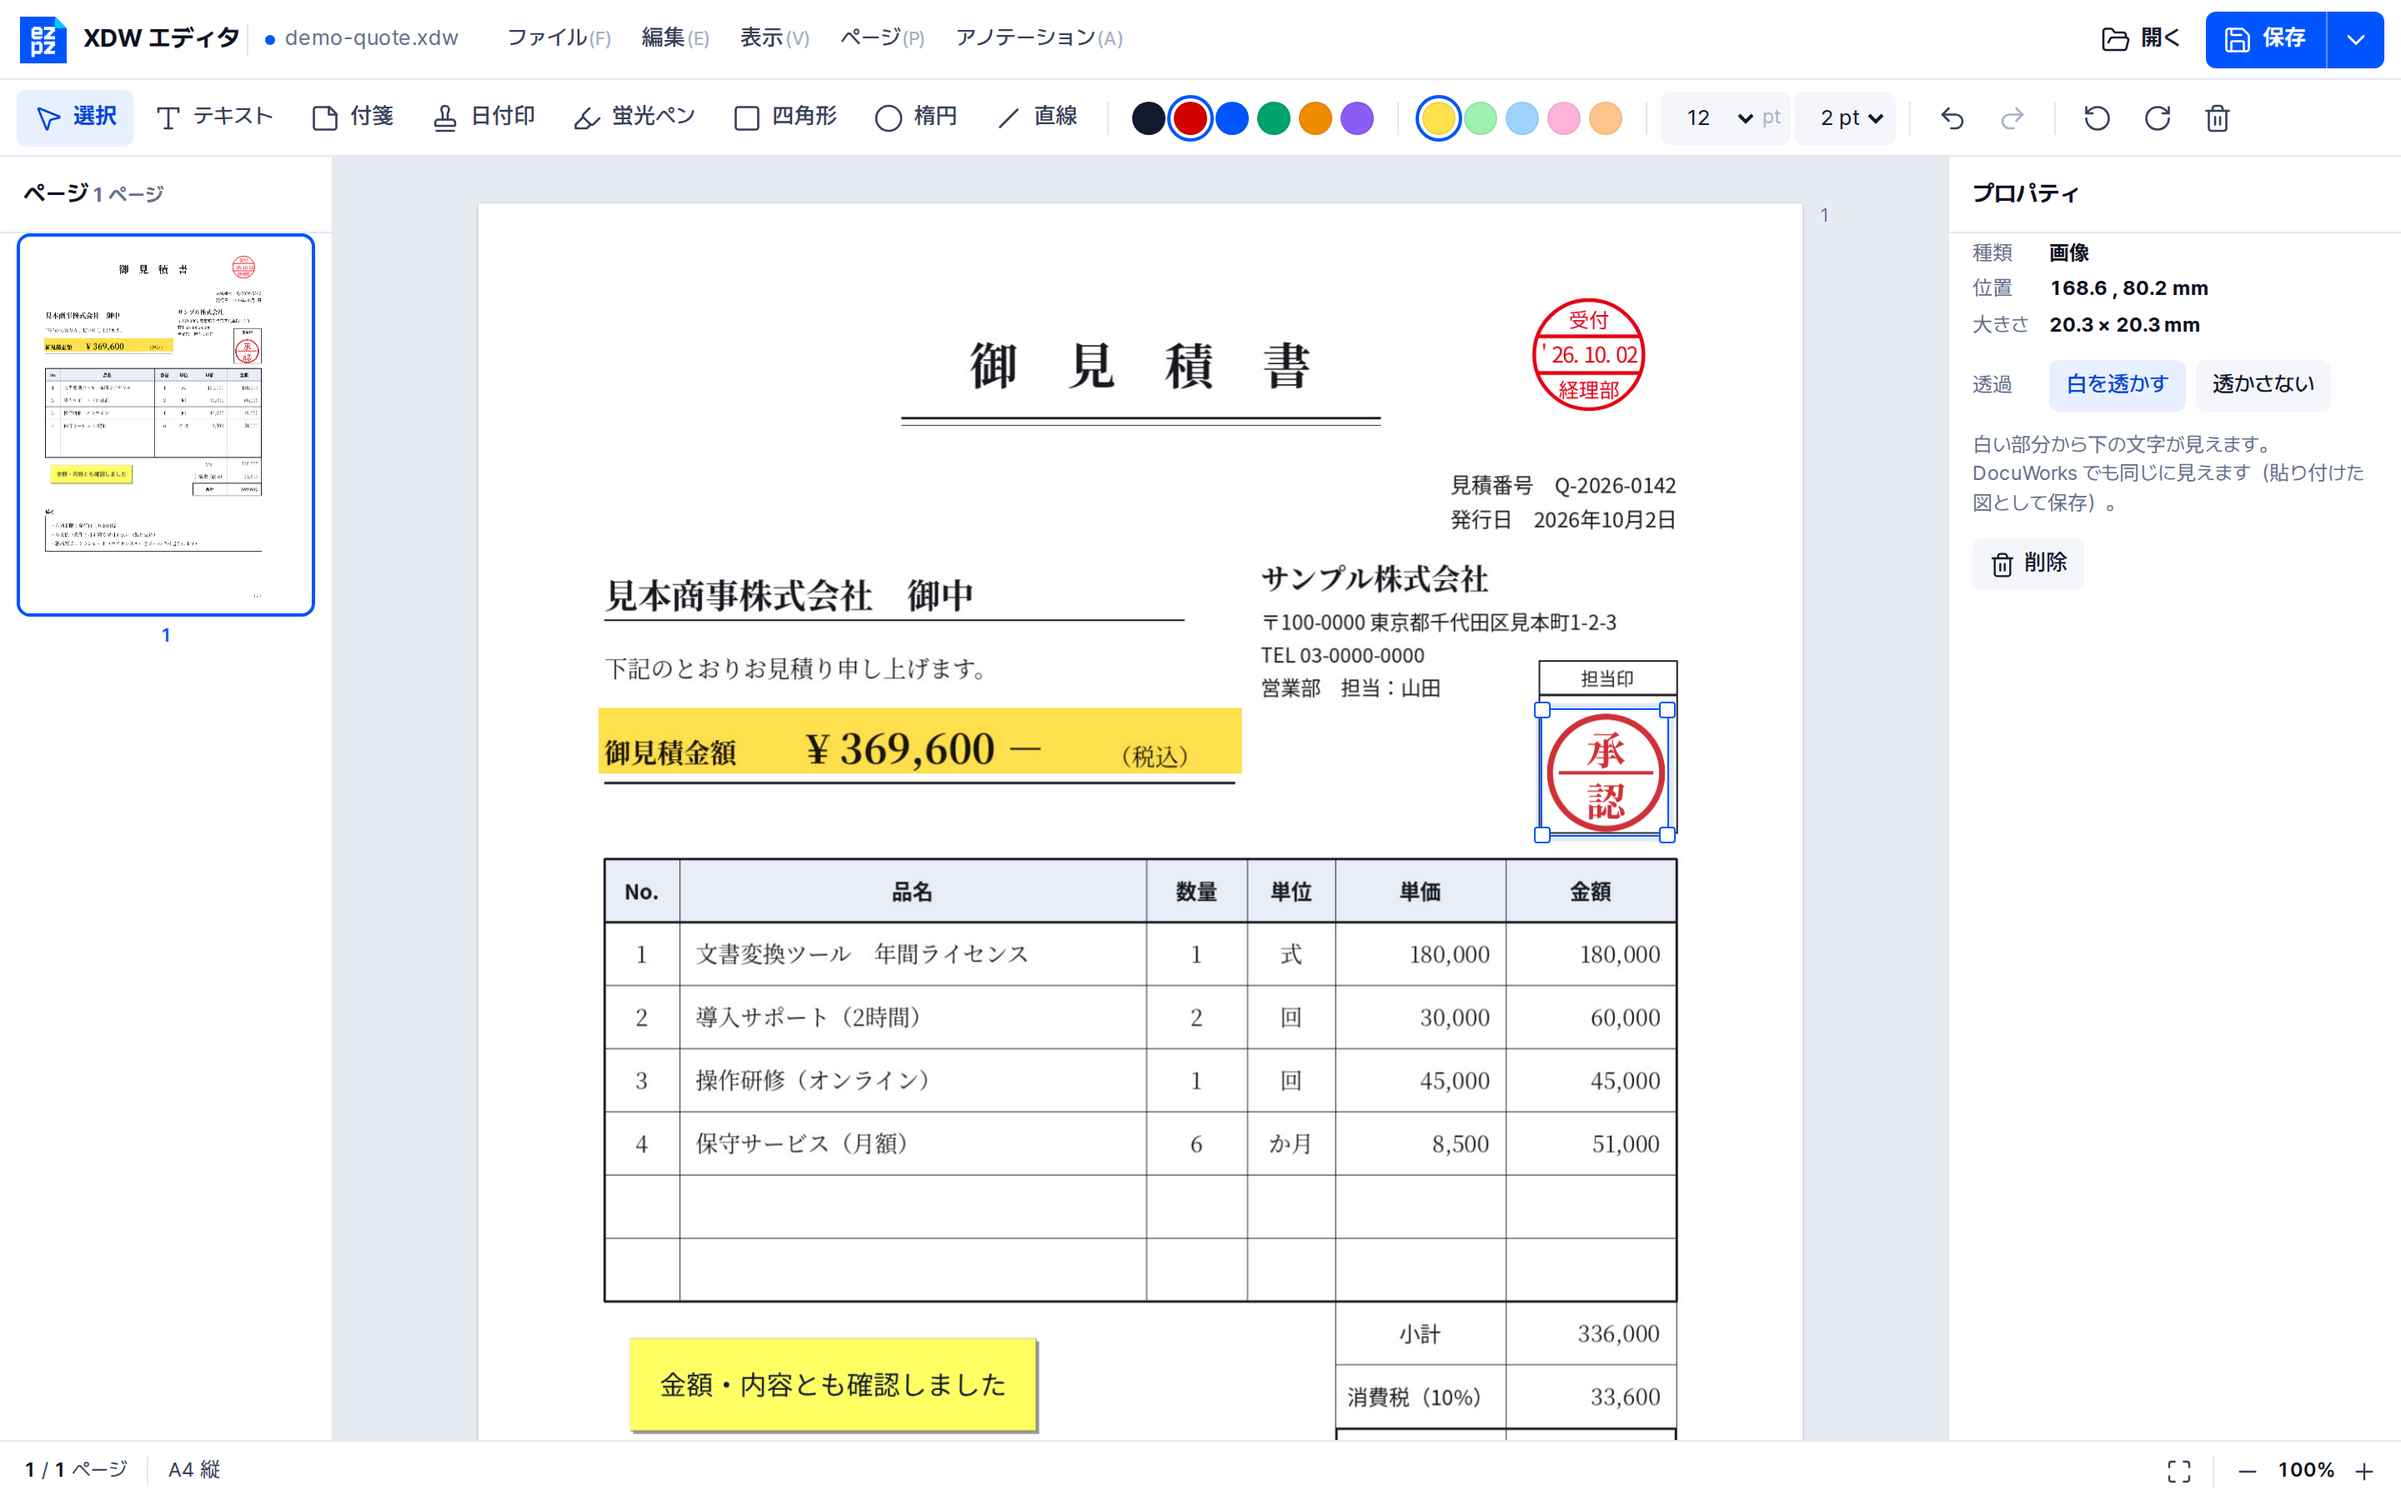
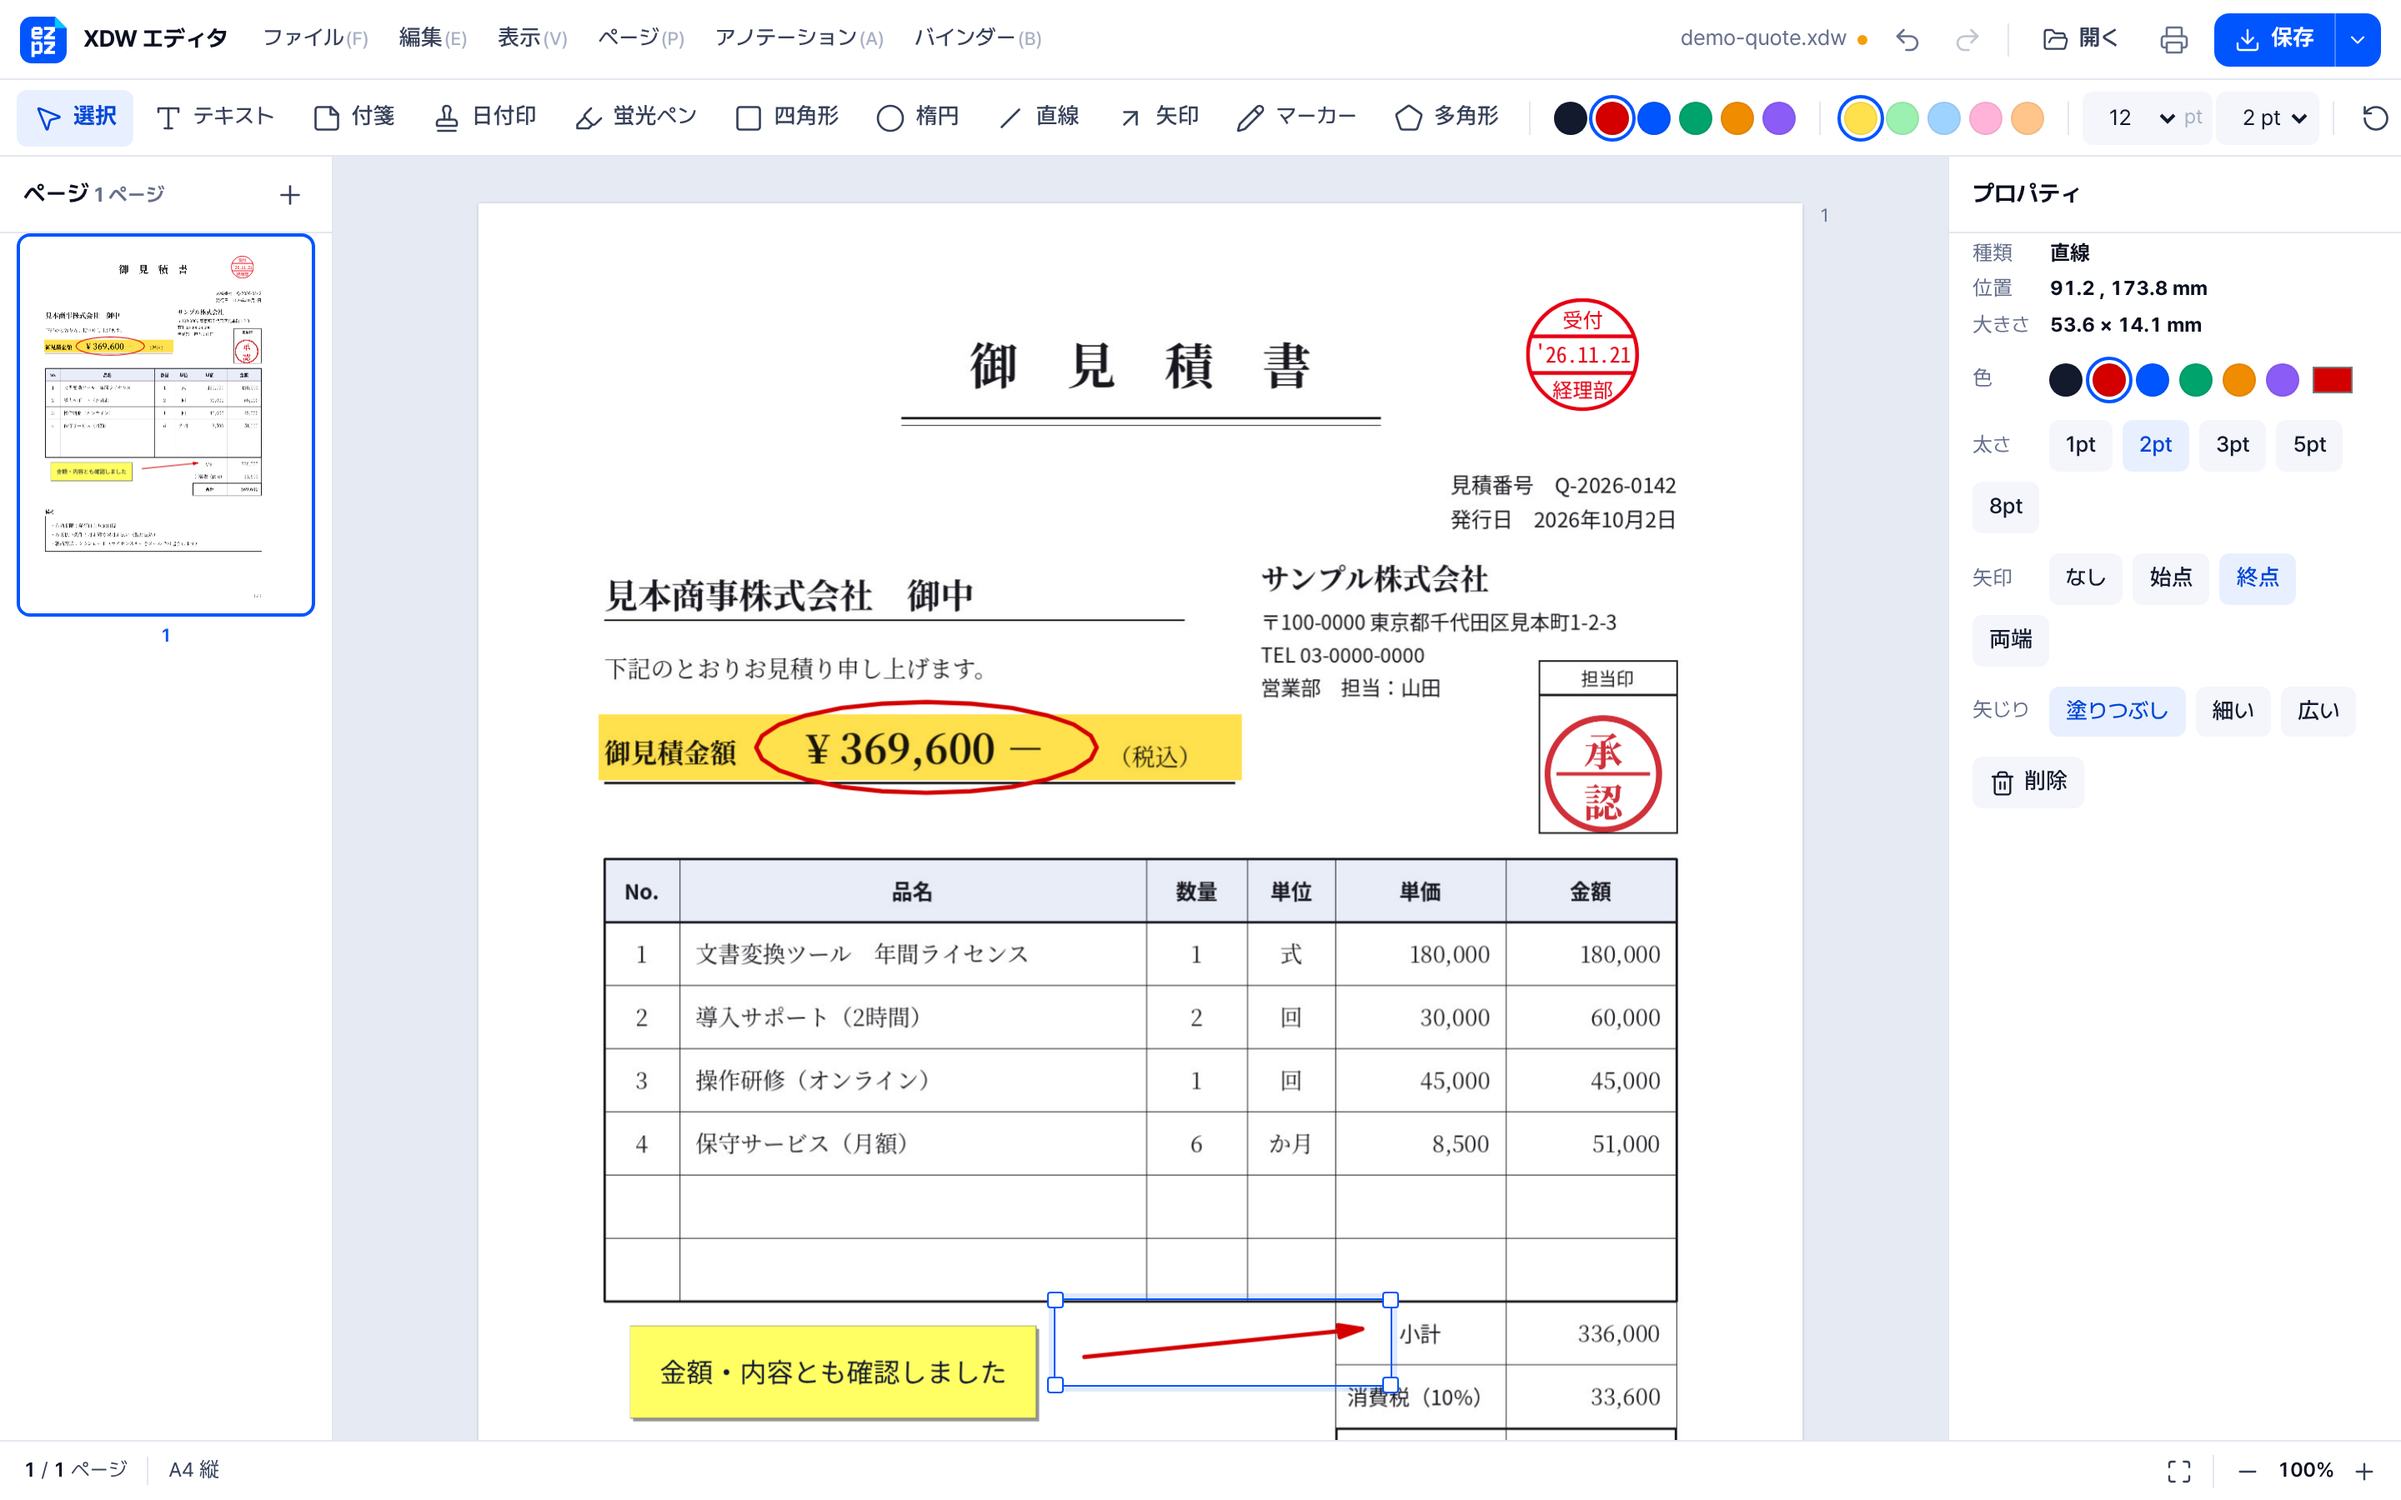
docs: README for 0.4 (status, what is left to DocuWorks, new screenshot)
Claude-Session: https://claude.ai/code/session_014qcgeBg5AazadfLEhogDHo

diff --git a/README.md b/README.md
@@ -12,7 +12,7 @@
 富士フイルム（旧富士ゼロックス）DocuWorks のファイルを扱うための、ゼロから作ったオープンソースの
 エンジン・エディタ・ファイル形式仕様書です。ファイルは端末の外に送信されません。
 
-状態: **v0.3。`.xdw` / `.xbd` に保存し直せるビューア + エディタ（開発者向けプレビュー）。**
+状態: **v0.4。`.xdw` / `.xbd` に保存し直せるビューア + エディタ（開発者向けプレビュー）。**
 富士フイルムビジネスイノベーション株式会社とは関係ありません。
 
 [![XDW エディタの画面](docs/images/editor.png)](https://ezpzfile.com/ja/xdw-editor)
@@ -74,7 +74,8 @@
 パスワードや電子証明書で保護された文書は「保護された文書」と表示し、DocuWorks でセキュリティを解除して
 から開くよう案内します（このエディタはパスワードを扱いません）。
 
-まだできないこと: 署名の有効性の確認、新しい署名・パスワードを付けること。
+署名の有効性の確認、新しい署名・パスワードを付けることは DocuWorks に任せます。
+受信印とリンクのアノテーションはまだ作れません（DocuWorks Desk で作ったサンプルを待っています）。
 詳しくは [計画](docs/PLAN.ja.md)
 （[English](docs/PLAN.en.md)、[한국어](docs/PLAN.ko.md)）を参照。
 

diff --git a/README.en.md b/README.en.md
@@ -12,7 +12,7 @@
 An open-source engine, editor and format specification for FUJIFILM (Fuji Xerox)
 DocuWorks files, built from scratch. Files never leave your device.
 
-Status: **v0.3, viewer + editor that saves back to `.xdw` / `.xbd` (developer preview).**
+Status: **v0.4, viewer + editor that saves back to `.xdw` / `.xbd` (developer preview).**
 Not affiliated with FUJIFILM Business Innovation.
 
 [![The XDW editor](docs/images/editor.png)](https://ezpzfile.com/xdw-editor)
@@ -81,8 +81,9 @@ Documents protected by a password or a certificate are reported as protected,
 with a note to remove the protection in DocuWorks first (this editor never
 handles passwords).
 
-Not yet: verifying that a signature still holds, and adding signatures or
-passwords. See the [plan](docs/PLAN.en.md)
+Checking that a signature still holds, and adding signatures or passwords,
+are left to DocuWorks. Received stamps and link annotations cannot be made yet
+(waiting for a sample made in DocuWorks Desk). See the [plan](docs/PLAN.en.md)
 ([日本語](docs/PLAN.ja.md), [한국어](docs/PLAN.ko.md)).
 
 ## Opening untrusted files
